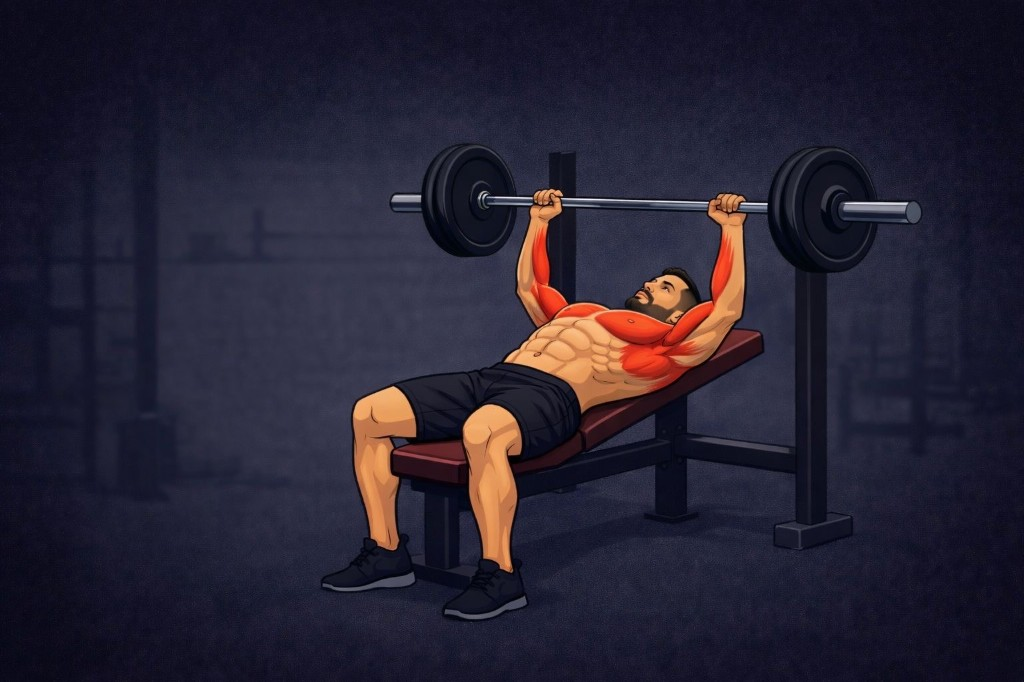
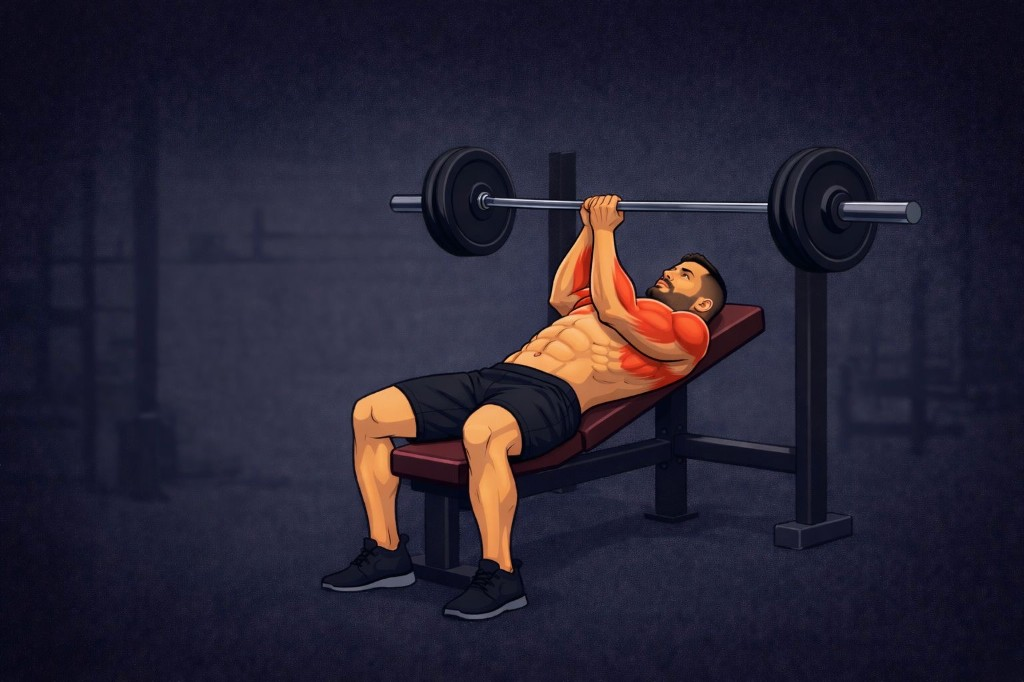
Exercise images, display fixes, and workout UI updates
- Add/update exercise images: barbell row, lateral raises, front raises, leg press, hack squat, incline dumbbell press, dumbbell fly, face pull, dips, split squat, hip thrust
- Dynamic image positioning: object-top for lateral/front raises, object-center for bench/lying exercises
- Exercise modal shows full image (object-contain)
- Display option name only (remove duplicate day name)
- Add getExerciseImagePosition helper for standing vs lying exercises

Made-with: Cursor

Changed region(s): [[0.4688, 0.2771, 0.75, 0.6466], [0.4375, 0.2155, 0.5, 0.2463], [0.375, 0.2771, 0.4062, 0.3079]]

diff --git a/lib/built-in-exercise-images.ts b/lib/built-in-exercise-images.ts
@@ -13,11 +13,17 @@ export const BUILT_IN_EXERCISE_IMAGES: Record<string, string> = {
   "incline bench press": "/images/exercises/incline-bench-press.png",
   "incline barbell press": "/images/exercises/incline-bench-press.png",
   "incline dumbbell press": "/images/exercises/incline-dumbbell-press.png",
+  "dumbbell fly": "/images/exercises/dumbbell-fly.png",
   "chest fly": "/images/exercises/incline-fly.png",
   "incline fly": "/images/exercises/incline-fly.png",
   "incline dumbbell fly": "/images/exercises/incline-fly.png",
   "pec deck": "/images/exercises/incline-fly.png",
   // Shoulders
+  "front raise": "/images/exercises/front-raises.png",
+  "front raises": "/images/exercises/front-raises.png",
+  "dumbbell front raise": "/images/exercises/front-raises.png",
+  "lateral raise": "/images/exercises/lateral-raises.png",
+  "lateral raises": "/images/exercises/lateral-raises.png",
   "overhead press": "/images/exercises/overhead-press.png",
   "shoulder press": "/images/exercises/overhead-press.png",
   "barbell overhead press": "/images/exercises/overhead-press.png",
@@ -26,20 +32,39 @@ export const BUILT_IN_EXERCISE_IMAGES: Record<string, string> = {
   "dip": "/images/exercises/dips.png",
   "tricep dips": "/images/exercises/dips.png",
   // Back / Pull
+  "barbell row": "/images/exercises/barbell-row.png",
+  "bent over barbell row": "/images/exercises/barbell-row.png",
   "dumbbell row": "/images/exercises/dumbbell-row.png",
-  "barbell row": "/images/exercises/dumbbell-row.png",
   "cable curl": "/images/exercises/cable-curl.png",
   "cable bicep curl": "/images/exercises/cable-curl.png",
   "bicep curl": "/images/exercises/cable-curl.png",
+  "face pull": "/images/exercises/face-pull.png",
   // Legs
   "leg press": "/images/exercises/leg-press.png",
+  "leg press machine": "/images/exercises/leg-press.png",
   "leg extension": "/images/exercises/leg-extension.png",
   "leg curl": "/images/exercises/leg-curl.png",
   "prone leg curl": "/images/exercises/leg-curl.png",
+  "lying leg curl": "/images/exercises/leg-curl.png",
   "hip thrust": "/images/exercises/hip-thrust.png",
   "barbell hip thrust": "/images/exercises/hip-thrust.png",
   "glute bridge": "/images/exercises/hip-thrust.png",
+  "lunges": "/images/exercises/lunges.png",
+  "dumbbell lunge": "/images/exercises/lunges.png",
+  "walking lunges": "/images/exercises/lunges.png",
+  "hack squat": "/images/exercises/hack-squat.png",
+  "split squat": "/images/exercises/split-squat.png",
+  "bulgarian split squat": "/images/exercises/split-squat.png",
 };
+
+/** Standing exercises (person upright) - use object-top so head is visible */
+const STANDING_EXERCISES = ["lateral raise", "front raise"];
+
+export function getExerciseImagePosition(exerciseName: string): "object-top" | "object-center" {
+  if (!exerciseName) return "object-center";
+  const name = exerciseName.toLowerCase().trim();
+  return STANDING_EXERCISES.some((key) => name.includes(key)) ? "object-top" : "object-center";
+}
 
 export function getBuiltInImageUrl(exerciseName: string): string | undefined {
   if (!exerciseName) return undefined;

diff --git a/app/gym/workout/page.tsx b/app/gym/workout/page.tsx
@@ -4,7 +4,7 @@ import { useState, useMemo, useEffect, useRef, useCallback } from "react";
 import { useRouter, useSearchParams } from "next/navigation";
 import Link from "next/link";
 import BottomNav from "@/components/BottomNav";
-import { getBuiltInImageUrl } from "@/lib/built-in-exercise-images";
+import { getBuiltInImageUrl, getExerciseImagePosition } from "@/lib/built-in-exercise-images";
 import { X, Plus, Trash2, MoreVertical, Clock, BarChart3, RefreshCw, ChevronRight, ChevronLeft, Dumbbell, TrendingUp, Target, Zap, Calendar, Activity, Sparkles, Play } from "lucide-react";
 import GuidedWorkoutView from "@/components/GuidedWorkoutView";
 import ExerciseNameInput from "@/components/ExerciseNameInput";
@@ -560,15 +560,12 @@ export default function WorkoutPage() {
     return "Rest Day";
   };
 
-  // Get display name for date - shows option name + day (e.g. "Option 2 - Chest & Biceps")
+  // Get display name for date - shows option name only (e.g. "Option 1", "Option 2")
   const getWorkoutDisplayNameForDate = (date: Date): string => {
     const info = getWorkoutInfoForDate(date);
     if (info) {
       const opt = workoutOptions.find((o) => o.id === info.optionId);
-      if (opt) {
-        const dayName = opt.dayNames?.[info.dayKey];
-        return dayName ? `${opt.name} - ${dayName}` : opt.name;
-      }
+      if (opt) return opt.name;
     }
     return getWorkoutNameForDate(date);
   };
@@ -1208,12 +1205,12 @@ export default function WorkoutPage() {
                     className="bg-black/40 border border-white/10 rounded-lg p-2 cursor-pointer hover:bg-black/60 transition-colors"
                   >
                     {/* Exercise thumbnail */}
-                    <div className="w-full h-20 bg-gray-800 rounded-lg mb-2 flex items-center justify-center overflow-hidden relative">
+                    <div className="w-full h-16 bg-gray-800 rounded-lg mb-2 flex items-center justify-center overflow-hidden relative">
                       {ex.imageUrl ? (
                         <img 
                           src={ex.imageUrl} 
                           alt={ex.name}
-                          className="w-full h-full object-cover"
+                          className={`w-full h-full object-cover ${getExerciseImagePosition(ex.name)}`}
                         />
                       ) : (
                         <Dumbbell className="w-6 h-6 text-gray-600" />
@@ -1274,8 +1271,8 @@ export default function WorkoutPage() {
             </div>
 
             <div className="flex-1 overflow-y-auto">
-              {/* Exercise image */}
-              <div className="w-full h-48 bg-gray-900 flex items-center justify-center relative overflow-hidden">
+              {/* Exercise image - show full image when expanded */}
+              <div className="w-full h-64 bg-gray-900 flex items-center justify-center relative overflow-hidden">
                 {activeExercise.imageUrl ? (
                   <img 
                     src={activeExercise.imageUrl} 

diff --git a/components/GuidedWorkoutView.tsx b/components/GuidedWorkoutView.tsx
@@ -2,7 +2,7 @@
 
 import { useState, useEffect } from "react";
 import { Play, SkipForward, RefreshCw, Clock, Check, Pause, X, ChevronRight } from "lucide-react";
-import { getBuiltInImageUrl } from "@/lib/built-in-exercise-images";
+import { getBuiltInImageUrl, getExerciseImagePosition } from "@/lib/built-in-exercise-images";
 
 export interface GuidedExercise {
   id: string;
@@ -375,12 +375,12 @@ export default function GuidedWorkoutView({
 
       <div className="flex-1 flex flex-col items-center justify-center p-6 pb-28">
         {/* Exercise image */}
-        <div className="w-32 h-32 rounded-xl bg-gray-900 flex items-center justify-center overflow-hidden mb-6">
+        <div className="w-24 h-24 rounded-xl bg-gray-900 flex items-center justify-center overflow-hidden mb-6">
           {(currentEx.imageUrl || getBuiltInImageUrl(currentEx.name)) ? (
             <img
               src={currentEx.imageUrl || getBuiltInImageUrl(currentEx.name) || ""}
               alt={currentEx.name}
-              className="w-full h-full object-cover"
+              className={`w-full h-full object-cover ${getExerciseImagePosition(currentEx.name)}`}
             />
           ) : (
             <span className="text-4xl">💪</span>

diff --git a/app/admin/exercise-images/page.tsx b/app/admin/exercise-images/page.tsx
@@ -3,6 +3,7 @@
 import { useState, useEffect, useRef } from "react";
 import { Upload, X, Check, Image as ImageIcon } from "lucide-react";
 import Link from "next/link";
+import { getExerciseImagePosition } from "@/lib/built-in-exercise-images";
 
 interface Exercise {
   id: string;
@@ -357,13 +358,13 @@ export default function ExerciseImagesAdminPage() {
                 className="bg-gradient-to-br from-[#0c1422] via-[#1a2332] to-black rounded-xl p-4 border border-white/10"
               >
                 {/* Exercise Image Preview */}
-                <div className="w-full h-40 bg-gray-800 rounded-lg mb-3 overflow-hidden relative">
+                <div className="w-full h-32 bg-gray-800 rounded-lg mb-3 overflow-hidden relative">
                   {exercise.imageUrl ? (
                     <>
                       <img
                         src={exercise.imageUrl}
                         alt={exercise.name}
-                        className="w-full h-full object-cover"
+                        className={`w-full h-full object-cover ${getExerciseImagePosition(exercise.name)}`}
                       />
                       <button
                         onClick={() => removeImage(exercise)}

diff --git a/app/gym/workouts/page.tsx b/app/gym/workouts/page.tsx
@@ -214,6 +214,8 @@ export default function WorkoutsPage() {
               ex("ex-9", "Leg Extension"),
               ex("ex-10", "Leg Curl"),
               ex("ex-11", "Hip Thrust"),
+              ex("ex-12", "Lunges"),
+              ex("ex-13", "Hack Squat"),
             ],
           },
           dayNames: {
